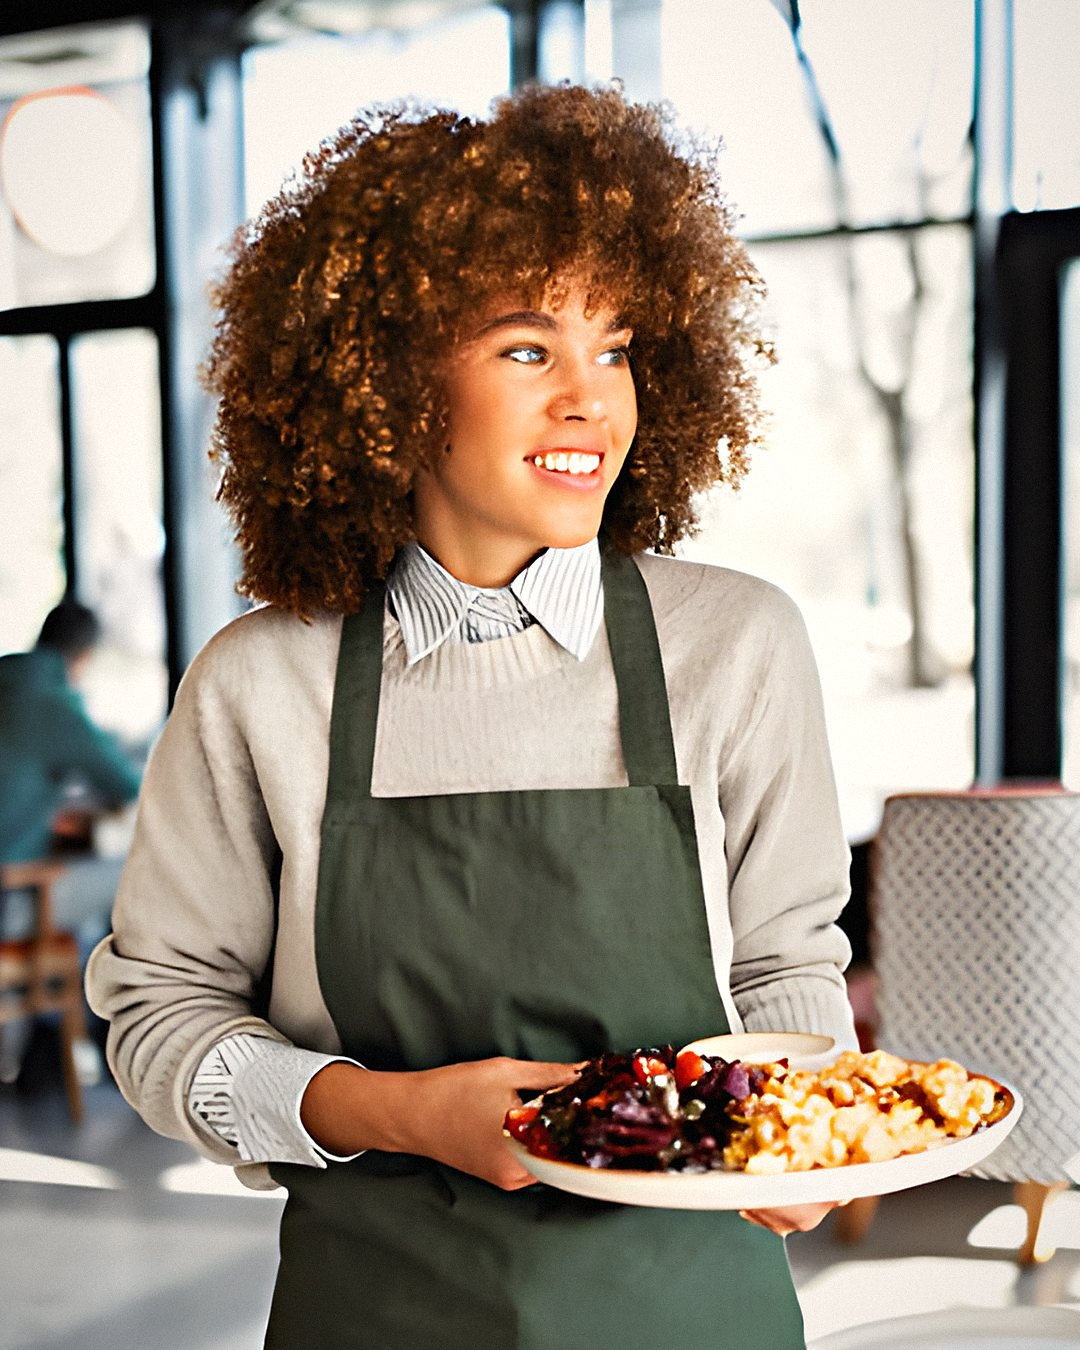
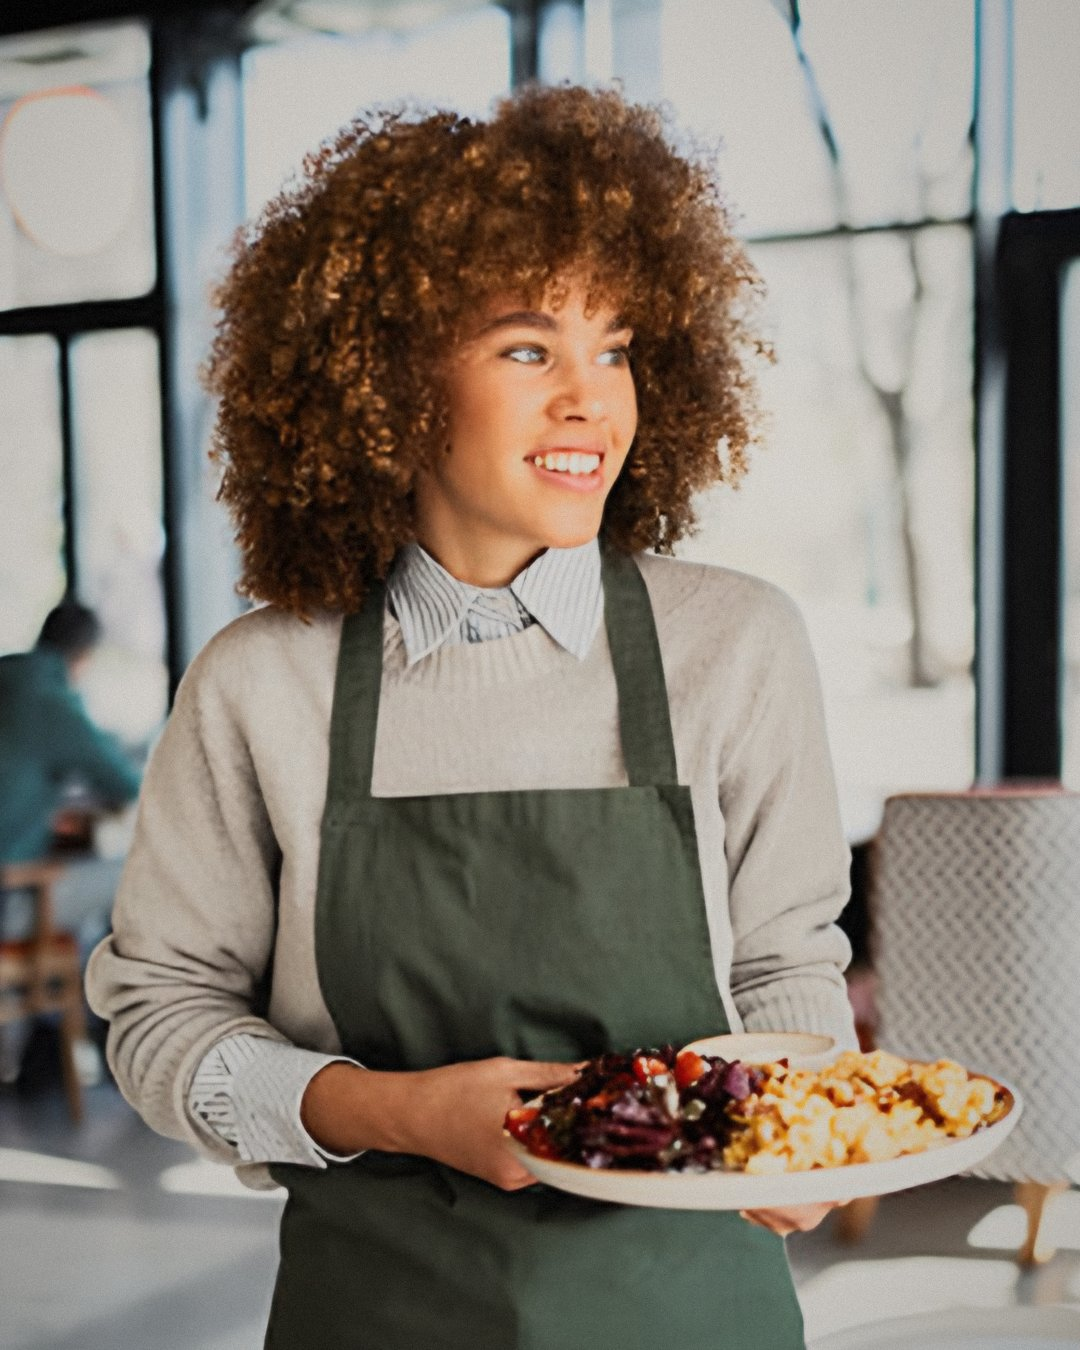
Brže učitavanje slika

diff --git a/components/sections/GuestStats.tsx b/components/sections/GuestStats.tsx
@@ -3,15 +3,14 @@
 import Image from "next/image";
 import { useEffect, useRef, useState } from "react";
 import { useInView, useReducedMotion } from "framer-motion";
-import { guestStatsCopy, sources, statCards, type Locale, type Stat } from "@/content/guest-stats";
+import { guestStatsCopy, statCards, type Locale, type Stat } from "@/content/guest-stats";
 
-/** Brojke iz industrije na fotografijama, s izvorima. Postavlja se odmah ispod sekcije Partneri. */
+/** Brojke na fotografijama. Izvori su zapisani u content/guest-stats.ts. */
 export function GuestStats({ locale = "hr" }: { locale?: Locale }) {
   const copy = guestStatsCopy[locale];
-  const used = Array.from(new Set(statCards.flatMap((c) => c.stats.map((s) => s.source))));
 
   return (
-    <section aria-labelledby="brojke-naslov" className="bg-ink pb-24 sm:pb-28">
+    <section aria-labelledby="brojke-naslov" className="bg-ink py-24 sm:py-28">
       <div className="container-page">
         <h2 id="brojke-naslov" className="text-h2 font-semibold">
           {copy.title}
@@ -39,31 +38,19 @@ export function GuestStats({ locale = "hr" }: { locale?: Locale }) {
 
               <div className={`absolute inset-x-0 bottom-0 grid gap-5 p-6 sm:p-7 ${card.stats.length > 1 ? "grid-cols-2" : ""}`}>
                 {card.stats.map((s, i) => (
-                  <StatBlock key={i} s={s} n={used.indexOf(s.source) + 1} small={card.stats.length > 1} locale={locale} delay={ci * 120} />
+                  <StatBlock key={i} s={s} small={card.stats.length > 1} locale={locale} delay={ci * 120} />
                 ))}
               </div>
             </li>
           ))}
         </ul>
 
-        <p className="mt-8 text-[0.75rem] leading-relaxed text-white/40">
-          <span>{copy.sourcesLabel}: </span>
-          {used.map((key, i) => (
-            <span key={key}>
-              <sup>{i + 1}</sup>{" "}
-              <a href={sources[key].url} target="_blank" rel="noopener noreferrer" className="underline-offset-2 hover:text-white/70 hover:underline">
-                {sources[key].name[locale]}
-              </a>
-              {i < used.length - 1 && <span aria-hidden> · </span>}
-            </span>
-          ))}
-        </p>
       </div>
     </section>
   );
 }
 
-function StatBlock({ s, n, small, locale, delay }: { s: Stat; n: number; small: boolean; locale: Locale; delay: number }) {
+function StatBlock({ s, small, locale, delay }: { s: Stat; small: boolean; locale: Locale; delay: number }) {
   const unit = s.suffix.startsWith(" ");
   return (
     <div>
@@ -78,7 +65,6 @@ function StatBlock({ s, n, small, locale, delay }: { s: Stat; n: number; small: 
       </p>
       <p className="mt-3 text-[0.9375rem] leading-snug text-white/80">
         {s.label[locale]}
-        <sup className="ml-0.5 text-[0.6875rem] text-white/50">{n}</sup>
       </p>
     </div>
   );

diff --git a/content/en/home.ts b/content/en/home.ts
@@ -26,22 +26,6 @@ export const home: HomeText = {
     tipsChip: { question: "Add a tip?", suggested: "Suggested" },
   },
 
-  problem: {
-    title: "Less waiting. More experience.",
-    lead: "Most of the waiting in a café or restaurant isn't the cooking. It's the walking: for the menu, for the order, for the bill. Tavla cuts that walking short.",
-    caption: "Comparison: how it works today and how it works with Tavla",
-    now: "Today",
-    withTavla: "With Tavla",
-    rows: [
-      { now: "Guests wait for someone to bring the menu.", tavla: "The menu is on the table, on the guest's phone." },
-      { now: "Guests wait for a waiter to take the order.", tavla: "Guests order when they're ready, and it arrives instantly." },
-      { now: "Extra requests get lost in the rush.", tavla: "Waiter calls and bills arrive with the table number." },
-      { now: "Staff walk for orders and write them down.", tavla: "Staff prepare and serve. The order is already written." },
-      { now: "Owners can't see what's happening on a shift.", tavla: "Orders and sales are visible in one overview." },
-      { now: "The second round never happens because nobody asked.", tavla: "Pairing suggestions and “Another round” in one tap." },
-    ],
-  },
-
   how: {
     title: "Three steps from table to order.",
     lead: "No app to download, no sign-up, no waiting for a waiter.",

diff --git a/content/hr/home.ts b/content/hr/home.ts
@@ -29,22 +29,6 @@ export const home = {
     tipsChip: { question: "Dodati napojnicu?", suggested: "Prijedlog" },
   },
 
-  problem: {
-    title: "Manje čekanja. Više iskustva.",
-    lead: "Najveći dio čekanja u kafiću ili restoranu nije priprema, nego hodanje: po meni, po narudžbu, po račun. Tavla to hodanje skraćuje.",
-    caption: "Usporedba: kako je danas i kako je s Tavlom",
-    now: "Danas",
-    withTavla: "S Tavlom",
-    rows: [
-      { now: "Gost čeka da mu netko donese meni.", tavla: "Meni je na stolu, u mobitelu gosta." },
-      { now: "Gost čeka da konobar dođe po narudžbu.", tavla: "Gost naruči kad je spreman, narudžba stiže odmah." },
-      { now: "Dodatna želja se izgubi u gužvi.", tavla: "Poziv konobara i račun stižu s brojem stola." },
-      { now: "Osoblje hoda po narudžbe i zapisuje ih.", tavla: "Osoblje priprema i nosi, a narudžba je već zapisana." },
-      { now: "Vlasnik ne vidi što se događa u smjeni.", tavla: "Narudžbe i prodaja vidljivi su u jednom pregledu." },
-      { now: "Druga tura se ne dogodi jer nitko nije pitao.", tavla: "Prijedlozi uz narudžbu i „Ponovi turu” jednim dodirom." },
-    ],
-  },
-
   how: {
     title: "Tri koraka od stola do narudžbe.",
     lead: "Bez aplikacije za preuzimanje, bez registracije, bez čekanja konobara.",

diff --git a/components/pages/HomePage.tsx b/components/pages/HomePage.tsx
@@ -3,7 +3,6 @@ import { Nav } from "@/components/layout/Nav";
 import { Footer } from "@/components/layout/Footer";
 import { Hero } from "@/components/sections/Hero";
 import { AiSoon } from "@/components/sections/AiSoon";
-import { Problem } from "@/components/sections/Problem";
 import { HowItWorks } from "@/components/sections/HowItWorks";
 import { Experiences } from "@/components/sections/Experiences";
 import { ProductDemo } from "@/components/sections/ProductDemo";
@@ -28,7 +27,7 @@ export function HomePage({ locale }: { locale: Locale }) {
         <Hero />
         <PartnerStrip locale={locale} />
         <AiSoon locale={locale} />
-        <Problem locale={locale} />
+        <GuestStats locale={locale} />
         <HowItWorks />
         <Experiences locale={locale} />
         <ProductDemo />
@@ -37,7 +36,6 @@ export function HomePage({ locale }: { locale: Locale }) {
         <WhyTavla locale={locale} />
         <Team locale={locale} />
         <Partners locale={locale} />
-        <GuestStats locale={locale} />
         <Faq />
         <Contact locale={locale} />
       </main>

diff --git a/components/sections/Team.tsx b/components/sections/Team.tsx
@@ -28,7 +28,7 @@ export function Team({ locale }: { locale: Locale }) {
               <article className="flex h-full flex-col gap-7 rounded-[2rem] bg-graphite p-6 sm:flex-row sm:items-center sm:p-8">
                 <div className="relative aspect-[4/5] w-full overflow-hidden rounded-[1.5rem] bg-graphite-2 sm:w-40 sm:shrink-0">
                   {p.photo ? (
-                    <Image src={p.photo} alt={`${p.name}, ${p.role}`} fill sizes="(min-width: 640px) 10rem, 100vw" className="object-cover" />
+                    <Image src={p.photo} alt={`${p.name}, ${p.role}`} fill sizes="(min-width: 640px) 10rem, calc(100vw - 5.5rem)" className="object-cover" />
                   ) : (
                     <div className="absolute inset-0 grid place-items-center" aria-hidden>
                       <LogoMark className="absolute right-4 top-4 h-4 w-auto text-white/15" />

diff --git a/lib/image-loader.ts b/lib/image-loader.ts
@@ -1,0 +1,17 @@
+import manifest from "./image-manifest.json";
+
+/**
+ * Loader za next/image: umjesto optimizacije na serveru (spora na Cloudflare Workersima)
+ * vraća unaprijed pripremljenu WebP datoteku iz public/_img.
+ * Datoteke radi scripts/optimize-images.mjs.
+ */
+type Entry = { h: string; w: number[] };
+
+export default function imageLoader({ src, width }: { src: string; width: number; quality?: number }) {
+  const entry = (manifest as Record<string, Entry>)[src];
+  // SVG, vanjske slike i slike koje skripta još nije obradila idu kakve jesu
+  if (!entry) return src;
+  const w = entry.w.find((x) => x >= width) ?? entry.w[entry.w.length - 1];
+  const base = src.replace(/^\/images\//, "").replace(/\.(jpe?g|png|webp)$/i, "");
+  return `/_img/${base}.${entry.h}-${w}.webp`;
+}

diff --git a/content/index.ts b/content/index.ts
@@ -46,7 +46,6 @@ if (typeof window === "undefined") {
   assertSame("tim (imena)", hr.team.map((t) => t.name), en.team.map((t) => t.name));
   assertSame("izjave (broj)", hr.testimonials.length, en.testimonials.length);
   assertSame("koristi (broj)", hr.home.benefits.items.length, en.home.benefits.items.length);
-  assertSame("problem (broj redaka)", hr.home.problem.rows.length, en.home.problem.rows.length);
   assertSame("AI najava (stavke)", hr.home.aiSoon.items.map((i) => i.visual), en.home.aiSoon.items.map((i) => i.visual));
 
   const prices = (d: Dict) => [

diff --git a/components/sections/Industries.tsx b/components/sections/Industries.tsx
@@ -90,7 +90,6 @@ function Card({ ind, hidden = false }: { ind: Industry; hidden?: boolean }) {
           alt={hidden ? "" : ind.imageAlt}
           width={900}
           height={1200}
-          unoptimized
           loading="lazy"
           sizes="(min-width: 640px) 19rem, 15.5rem"
           className="h-full w-full object-cover transition-transform duration-[1.2s] ease-[cubic-bezier(0.22,1,0.36,1)] group-hover:scale-[1.04]"

diff --git a/next.config.ts b/next.config.ts
@@ -64,7 +64,10 @@ const nextConfig: NextConfig = {
   reactStrictMode: true,
   poweredByHeader: false,
   images: {
-    formats: ["image/avif", "image/webp"],
+    loader: "custom",
+    loaderFile: "./lib/image-loader.ts",
+    deviceSizes: [640, 828, 1200, 1920],
+    imageSizes: [384],
   },
   async headers() {
     return [
